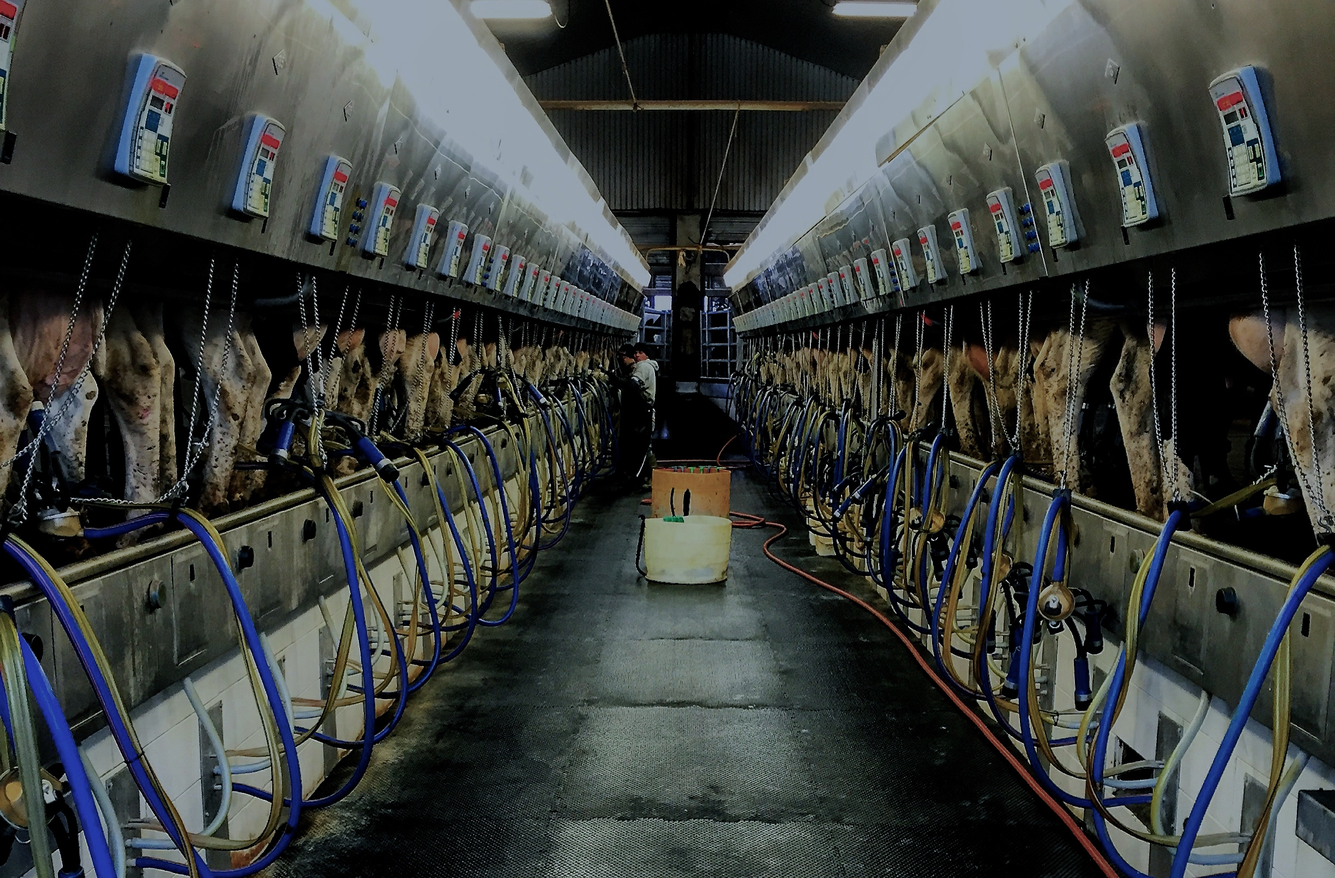
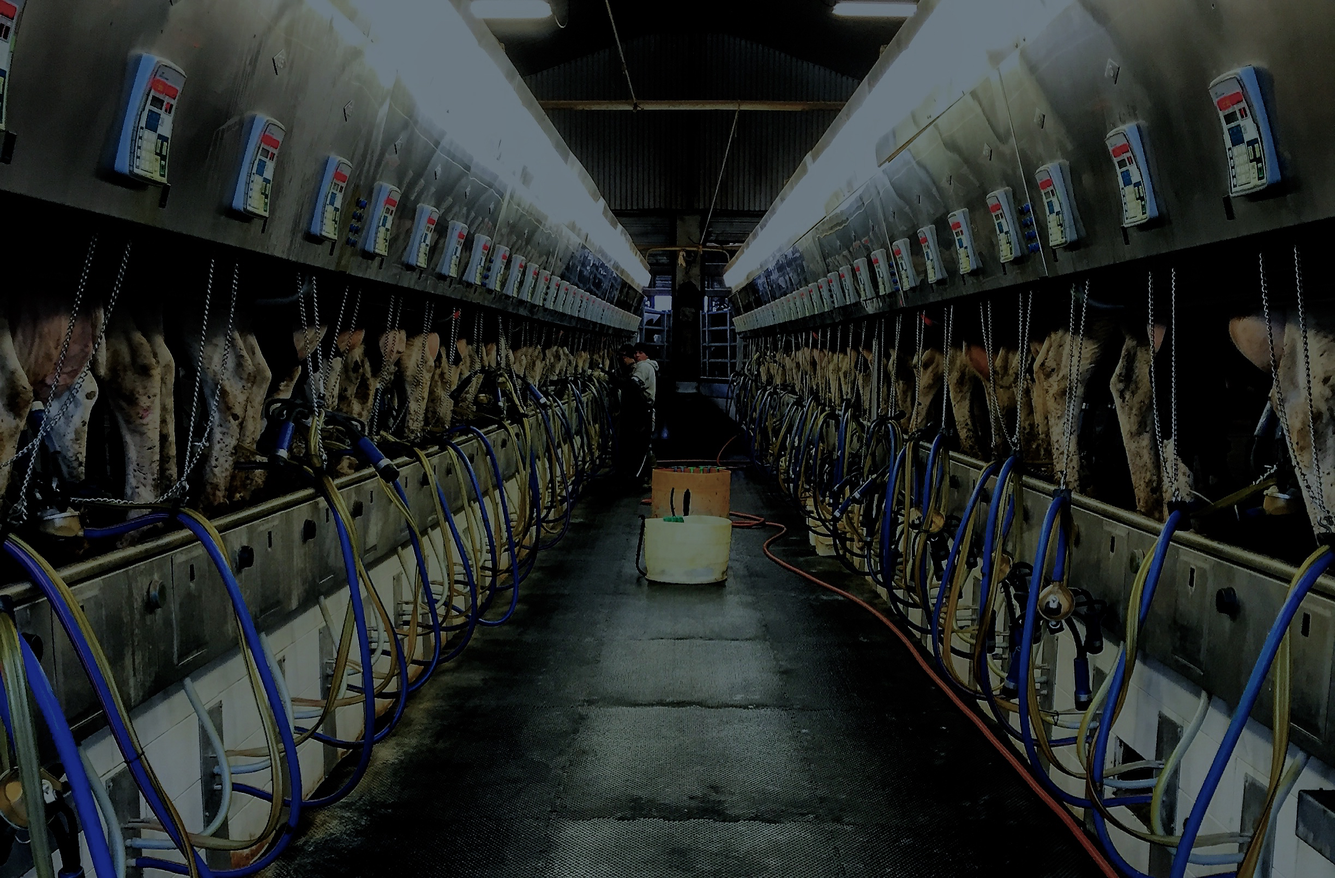
changed team section and amin background picture

diff --git a/index.html b/index.html
@@ -62,14 +62,14 @@
       <div class="container">
         <div class="intro-text">
           <div class="intro-lead-in">Welcome To Deardorff Farms!</div>
-          <div class="intro-heading text-uppercase">100% GMO Free Dairy!</div>
+          <div class="intro-heading text-uppercase">100% GMO Free Dairy</div>
           <a class="btn btn-primary btn-xl text-uppercase js-scroll-trigger" href="#what-we-do">Tell Me More</a>
         </div>
       </div>
     </header>
 
     <!-- What-We-Do -->
-    <section id="what-we-do">
+    <section id="what-we-do" class="bg-light">
       <div class="container">
         <div class="row">
           <div class="col-lg-12 text-center">
@@ -120,7 +120,7 @@
             <ul class="timeline">
               <li>
                 <div class="timeline-image">
-                  <img class="rounded-circle img-fluid" src="img/about/1.jpg" alt="">
+                  <img class="rounded-circle img-fluid" src="img/about/ralphSr.jpg" alt="">
                 </div>
                 <div class="timeline-panel">
                   <div class="timeline-heading">
@@ -192,16 +192,16 @@
       <div class="container">
         <div class="row">
           <div class="col-lg-12 text-center">
-            <h2 class="section-heading text-uppercase">Our Amazing Team</h2>
-            <h3 class="section-subheading text-muted">Lorem ipsum dolor sit amet consectetur.</h3>
+            <h2 class="section-heading text-uppercase">Our Team</h2>
+            <h3 class="section-subheading text-muted">Our farm is ran by some of the best employees. These are just a few people that keep our cows happy.</h3>
           </div>
         </div>
         <div class="row">
           <div class="col-sm-4">
             <div class="team-member">
-              <img class="mx-auto rounded-circle" src="img/team/1.jpg" alt="">
-              <h4>Kay Garland</h4>
-              <p class="text-muted">Lead Designer</p>
+              <img class="mx-auto rounded-circle" src="img/team/austin.jpg" alt="">
+              <h4>Austin Deardorff</h4>
+              <p class="text-muted">Dairy Manager</p>
               <ul class="list-inline social-buttons">
                 <li class="list-inline-item">
                   <a href="#">
@@ -223,9 +223,9 @@
           </div>
           <div class="col-sm-4">
             <div class="team-member">
-              <img class="mx-auto rounded-circle" src="img/team/2.jpg" alt="">
-              <h4>Larry Parker</h4>
-              <p class="text-muted">Lead Marketer</p>
+              <img class="mx-auto rounded-circle" src="img/team/anthony.jpg" alt="">
+              <h4>Anthony Deardorff</h4>
+              <p class="text-muted">Operations Manager</p>
               <ul class="list-inline social-buttons">
                 <li class="list-inline-item">
                   <a href="#">
@@ -247,9 +247,9 @@
           </div>
           <div class="col-sm-4">
             <div class="team-member">
-              <img class="mx-auto rounded-circle" src="img/team/3.jpg" alt="">
-              <h4>Diana Pertersen</h4>
-              <p class="text-muted">Lead Developer</p>
+              <img class="mx-auto rounded-circle" src="img/team/aasa.jpg" alt="">
+              <h4>Aasa Deardorff</h4>
+              <p class="text-muted">Manure Manager</p>
               <ul class="list-inline social-buttons">
                 <li class="list-inline-item">
                   <a href="#">
@@ -279,12 +279,12 @@
     </section>
 
     <!-- Photos Grid -->
-    <section class="bg-light" id="portfolio">
+    <section id="portfolio">
       <div class="container">
         <div class="row">
           <div class="col-lg-12 text-center">
-            <h2 class="section-heading text-uppercase">Portfolio</h2>
-            <h3 class="section-subheading text-muted">Lorem ipsum dolor sit amet consectetur.</h3>
+            <h2 class="section-heading text-uppercase">Photos</h2>
+            <h3 class="section-subheading text-muted">We love sharing some great shots from around the farm. Click the photos for more info on what is happening.</h3>
           </div>
         </div>
         <div class="row">
@@ -297,10 +297,10 @@
               </div>
               <img class="img-fluid" src="img/portfolio/01-thumbnail.jpg" alt="">
             </a>
-            <div class="portfolio-caption">
+            <!-- <div class="portfolio-caption">
               <h4>Threads</h4>
               <p class="text-muted">Illustration</p>
-            </div>
+            </div> -->
           </div>
           <div class="col-md-4 col-sm-6 portfolio-item">
             <a class="portfolio-link" data-toggle="modal" href="#portfolioModal2">
@@ -311,10 +311,10 @@
               </div>
               <img class="img-fluid" src="img/portfolio/02-thumbnail.jpg" alt="">
             </a>
-            <div class="portfolio-caption">
+            <!-- <div class="portfolio-caption">
               <h4>Explore</h4>
               <p class="text-muted">Graphic Design</p>
-            </div>
+            </div> -->
           </div>
           <div class="col-md-4 col-sm-6 portfolio-item">
             <a class="portfolio-link" data-toggle="modal" href="#portfolioModal3">
@@ -325,10 +325,10 @@
               </div>
               <img class="img-fluid" src="img/portfolio/03-thumbnail.jpg" alt="">
             </a>
-            <div class="portfolio-caption">
+            <!-- <div class="portfolio-caption">
               <h4>Finish</h4>
               <p class="text-muted">Identity</p>
-            </div>
+            </div> -->
           </div>
           <div class="col-md-4 col-sm-6 portfolio-item">
             <a class="portfolio-link" data-toggle="modal" href="#portfolioModal4">
@@ -339,10 +339,10 @@
               </div>
               <img class="img-fluid" src="img/portfolio/04-thumbnail.jpg" alt="">
             </a>
-            <div class="portfolio-caption">
+            <!-- <div class="portfolio-caption">
               <h4>Lines</h4>
               <p class="text-muted">Branding</p>
-            </div>
+            </div> -->
           </div>
           <div class="col-md-4 col-sm-6 portfolio-item">
             <a class="portfolio-link" data-toggle="modal" href="#portfolioModal5">
@@ -353,10 +353,10 @@
               </div>
               <img class="img-fluid" src="img/portfolio/05-thumbnail.jpg" alt="">
             </a>
-            <div class="portfolio-caption">
+            <!-- <div class="portfolio-caption">
               <h4>Southwest</h4>
               <p class="text-muted">Website Design</p>
-            </div>
+            </div> -->
           </div>
           <div class="col-md-4 col-sm-6 portfolio-item">
             <a class="portfolio-link" data-toggle="modal" href="#portfolioModal6">
@@ -367,17 +367,17 @@
               </div>
               <img class="img-fluid" src="img/portfolio/06-thumbnail.jpg" alt="">
             </a>
-            <div class="portfolio-caption">
+            <!-- <div class="portfolio-caption">
               <h4>Window</h4>
               <p class="text-muted">Photography</p>
-            </div>
+            </div> -->
           </div>
         </div>
       </div>
     </section>
 
     <!-- Clients -->
-    <section class="py-5">
+    <!-- <section class="py-5">
       <div class="container">
         <div class="row">
           <div class="col-md-3 col-sm-6">
@@ -402,7 +402,7 @@
           </div>
         </div>
       </div>
-    </section>
+    </section> -->
 
     <!-- Contact -->
     <section id="contact">
